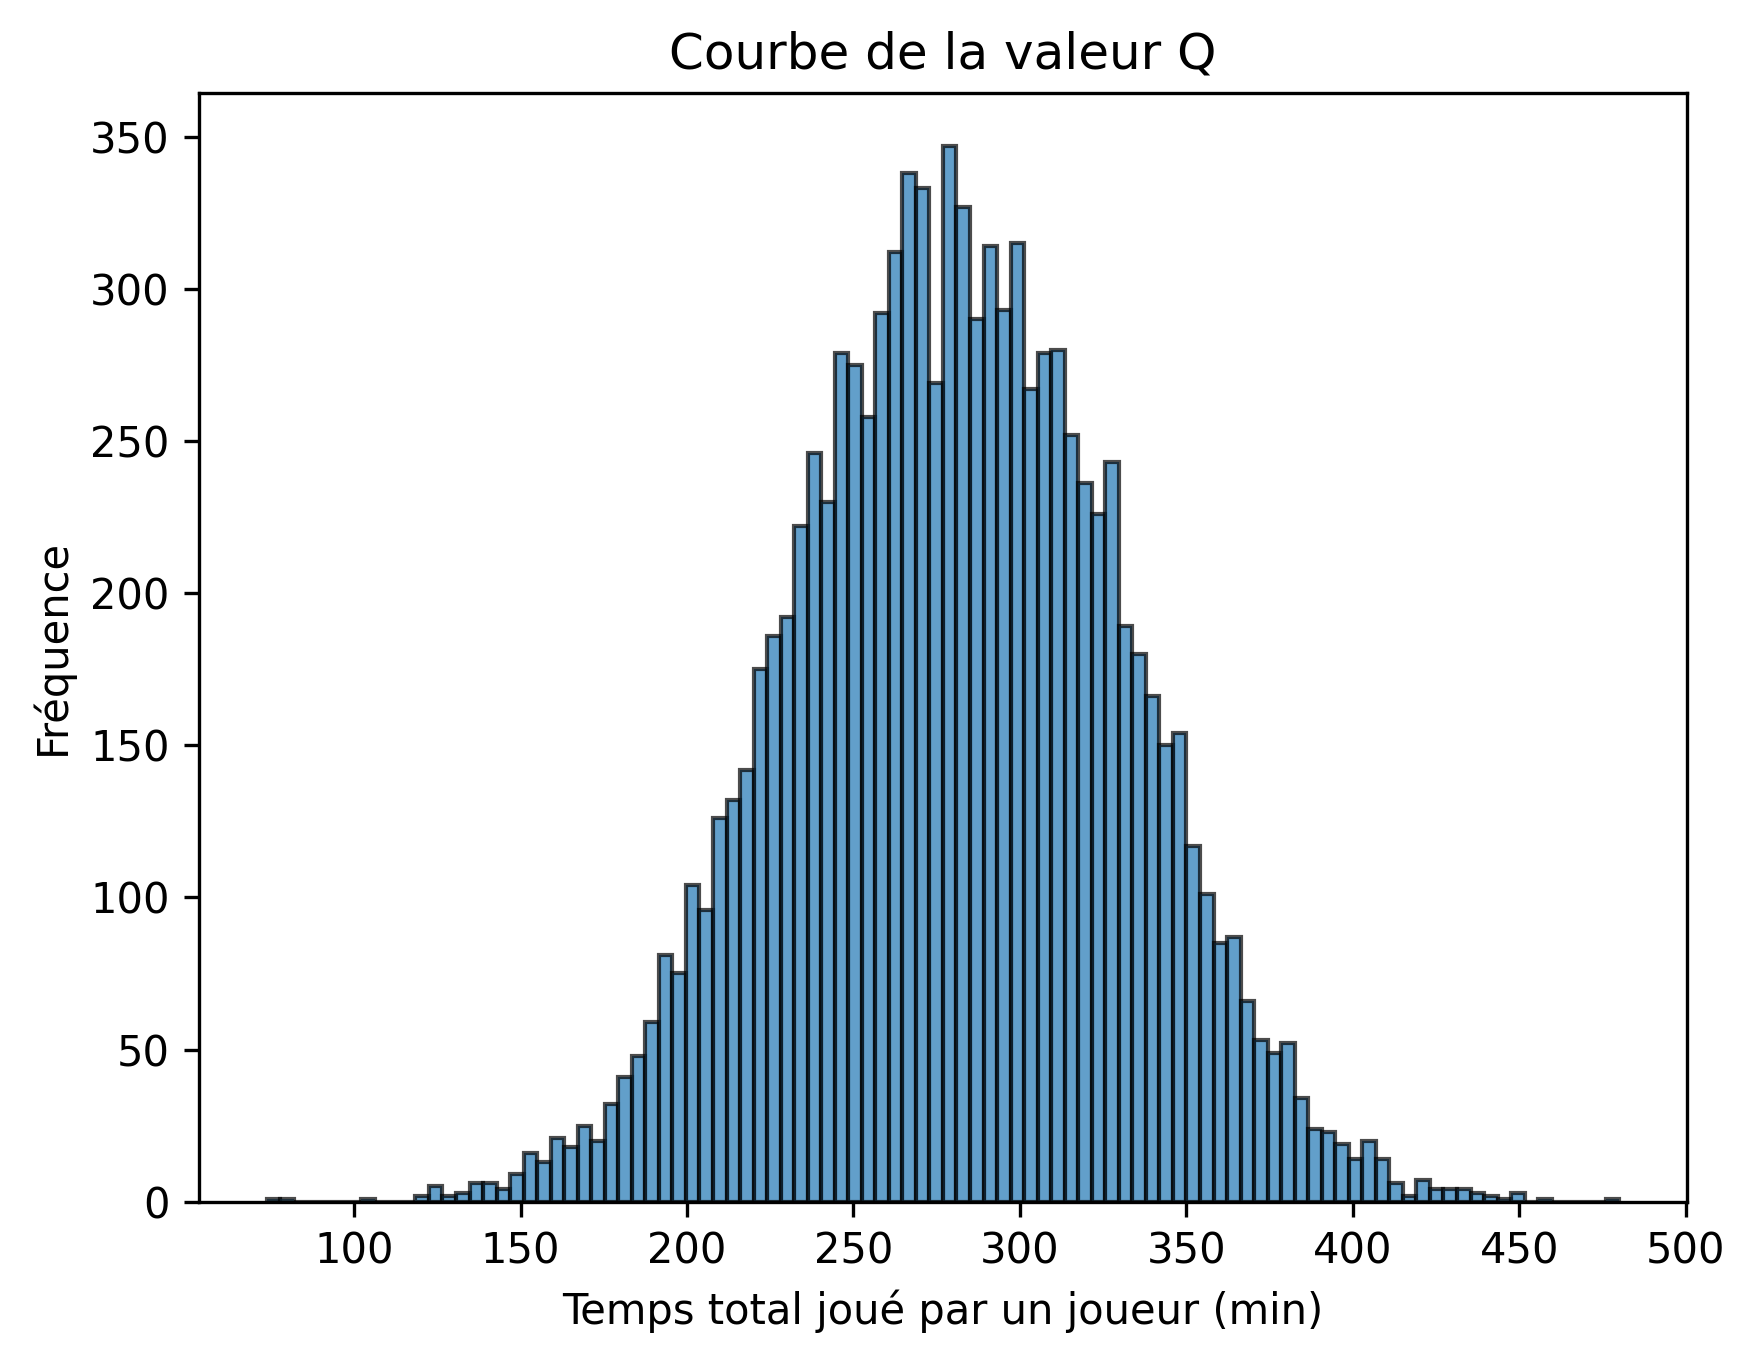
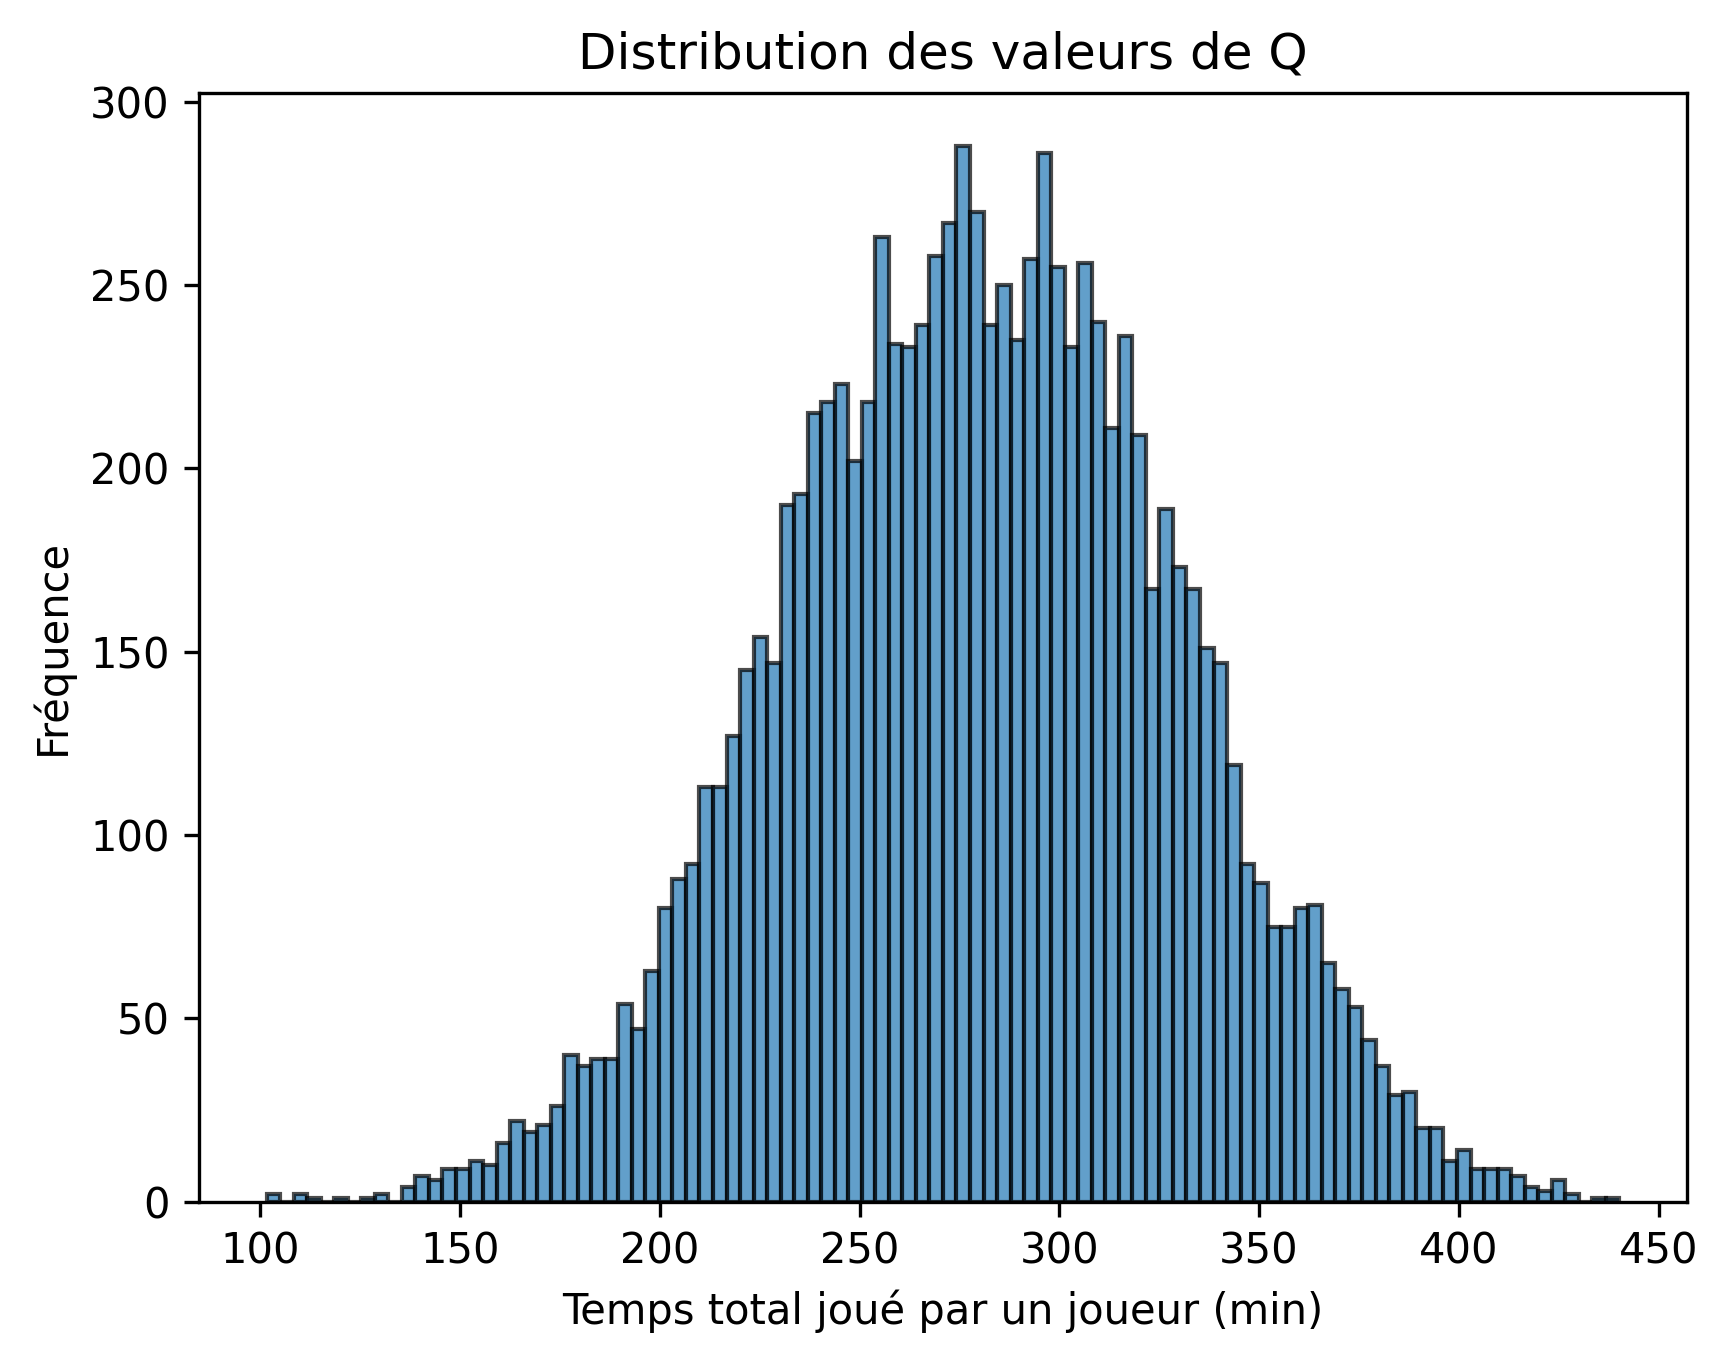
changement titre

diff --git a/main.py b/main.py
@@ -246,7 +246,7 @@ def mandat_3():
     Q_inv = np.array([inverse_F(u) for u in U]) * std + mean
 
     plt.hist(Q_inv, bins=100, alpha=0.7, edgecolor='black')
-    plt.title('Courbe de la valeur Q')
+    plt.title('Distribution des valeurs de Q')
     plt.xlabel('Temps total joué par un joueur (min)')
     plt.ylabel('Fréquence')
     plt.savefig("courbe_normale", bbox_inches='tight', dpi=300)
@@ -259,7 +259,7 @@ def mandat_3():
         plt.figure(figsize=(12, 12))
         plt.subplot(2, 1, 1)
         plt.hist(P_inv, bins=100, alpha=0.7, edgecolor='black')
-        plt.title(f'Courbe de la valeur P (λ = {lam})')
+        plt.title(f'Distribution des valeurs de P (λ = {lam})')
         plt.xlabel('Temps entre chaque arrivé (min)')
         plt.ylabel('Fréquence')
 
